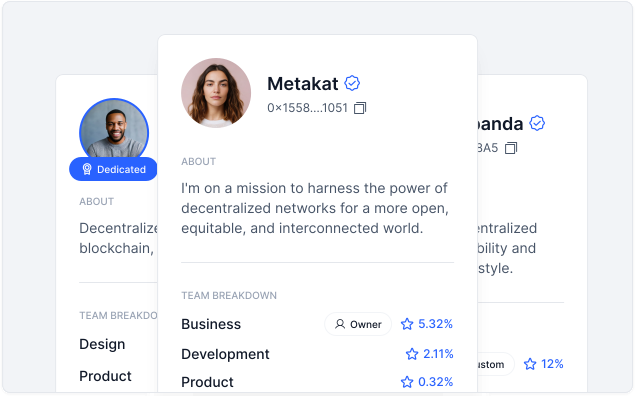
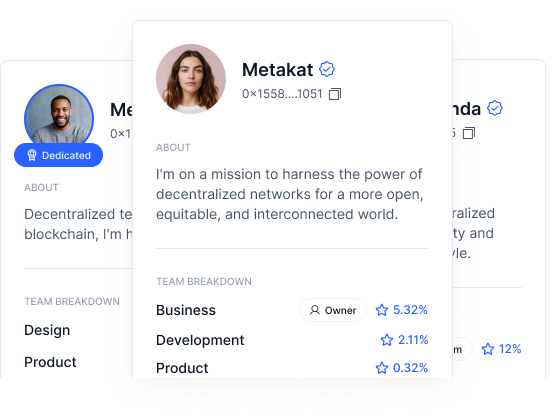
Updated landing page styles to get them closer to specs

diff --git a/src/components/frame/LandingPage/LandingPage.tsx b/src/components/frame/LandingPage/LandingPage.tsx
@@ -2,6 +2,7 @@ import React, { useState } from 'react';
 import { defineMessages, FormattedMessage } from 'react-intl';
 import { useNavigate } from 'react-router-dom';
 import { nanoid } from 'nanoid';
+import clsx from 'clsx';
 
 import Heading from '~shared/Heading';
 import CreateAColonyBanner from '~images/create-colony-banner.png';
@@ -86,7 +87,7 @@ const MSG = defineMessages({
 });
 
 const LandingPage = () => {
-  const [, setHoveredItem] = useState<number>(0);
+  const [hoveredItem, setHoveredItem] = useState<number>(1);
   const navigate = useNavigate();
   const { user, connectWallet, wallet, userLoading } = useAppContext();
   const onUserLogin = () => {
@@ -142,7 +143,7 @@ const LandingPage = () => {
             <FormattedMessage {...MSG.privateBetaLabel} />
           </span>
         </div>
-        <p className="text-normal text-gray-600">
+        <p className="text-md text-gray-600">
           <FormattedMessage {...MSG.headerDescription} />
         </p>
       </div>
@@ -157,11 +158,19 @@ const LandingPage = () => {
             />
           ))}
         </div>
-        <div className="w-1/2 bg-gray-100 rounded-lg max-h-[395px]">
+        <div
+          className={clsx(
+            'flex justify-center w-1/2 bg-gray-100 rounded-lg max-h-[395px] border border-gray-200 shadow-sm',
+            { 'pl-9 pt-7': hoveredItem === 0 },
+          )}
+        >
           <img
-            src={landingPageItems[1].imgSrc}
-            className="w-full h-full object-cover"
+            src={landingPageItems[1].imgSrc} // @TODO: Change to hoveredItem once we enable the create colony landing page item
             alt=""
+            className={clsx('object-cover relative', {
+              'rounded-br-[10px] rounded-tl-[10px]': hoveredItem === 0,
+              'left-3 top-7': hoveredItem === 1,
+            })}
           />
         </div>
       </div>

diff --git a/src/components/frame/LandingPage/LandingPageItem.tsx b/src/components/frame/LandingPage/LandingPageItem.tsx
@@ -35,8 +35,8 @@ const LandingPageItem = ({
         'group flex items-center justify-between px-6 py-5 rounded-lg border border-gray-200',
         { 'hover:border-blue-400': !disabled },
       )}
-      onMouseEnter={() => onHover(disabled ? 0 : itemIndex)}
-      onMouseLeave={() => onHover(0)}
+      onMouseEnter={() => onHover(disabled ? 1 : itemIndex)}
+      onMouseLeave={() => onHover(1)}
     >
       <div className="flex items-center">
         <div
@@ -62,7 +62,7 @@ const LandingPageItem = ({
         <div>
           <Heading
             text={headingText}
-            className={clsx('text-normal font-semibold', {
+            className={clsx('text-md font-semibold', {
               'text-gray-900': !disabled,
               'text-gray-300': disabled,
             })}

diff --git a/src/routes/LandingPageRoute/LandingPageLayout.tsx b/src/routes/LandingPageRoute/LandingPageLayout.tsx
@@ -22,7 +22,7 @@ const LandingPageLayout: FC<PropsWithChildren> = ({ children }) => {
         <div className="hidden">
           <Wallet />
         </div>
-        <main className="w-full mt-9 pr-4 flex flex-col items-center justify-center max-w-[1444px]">
+        <main className="w-full pr-4 flex flex-col items-center justify-center max-w-[1278px]">
           {children}
         </main>
       </div>
